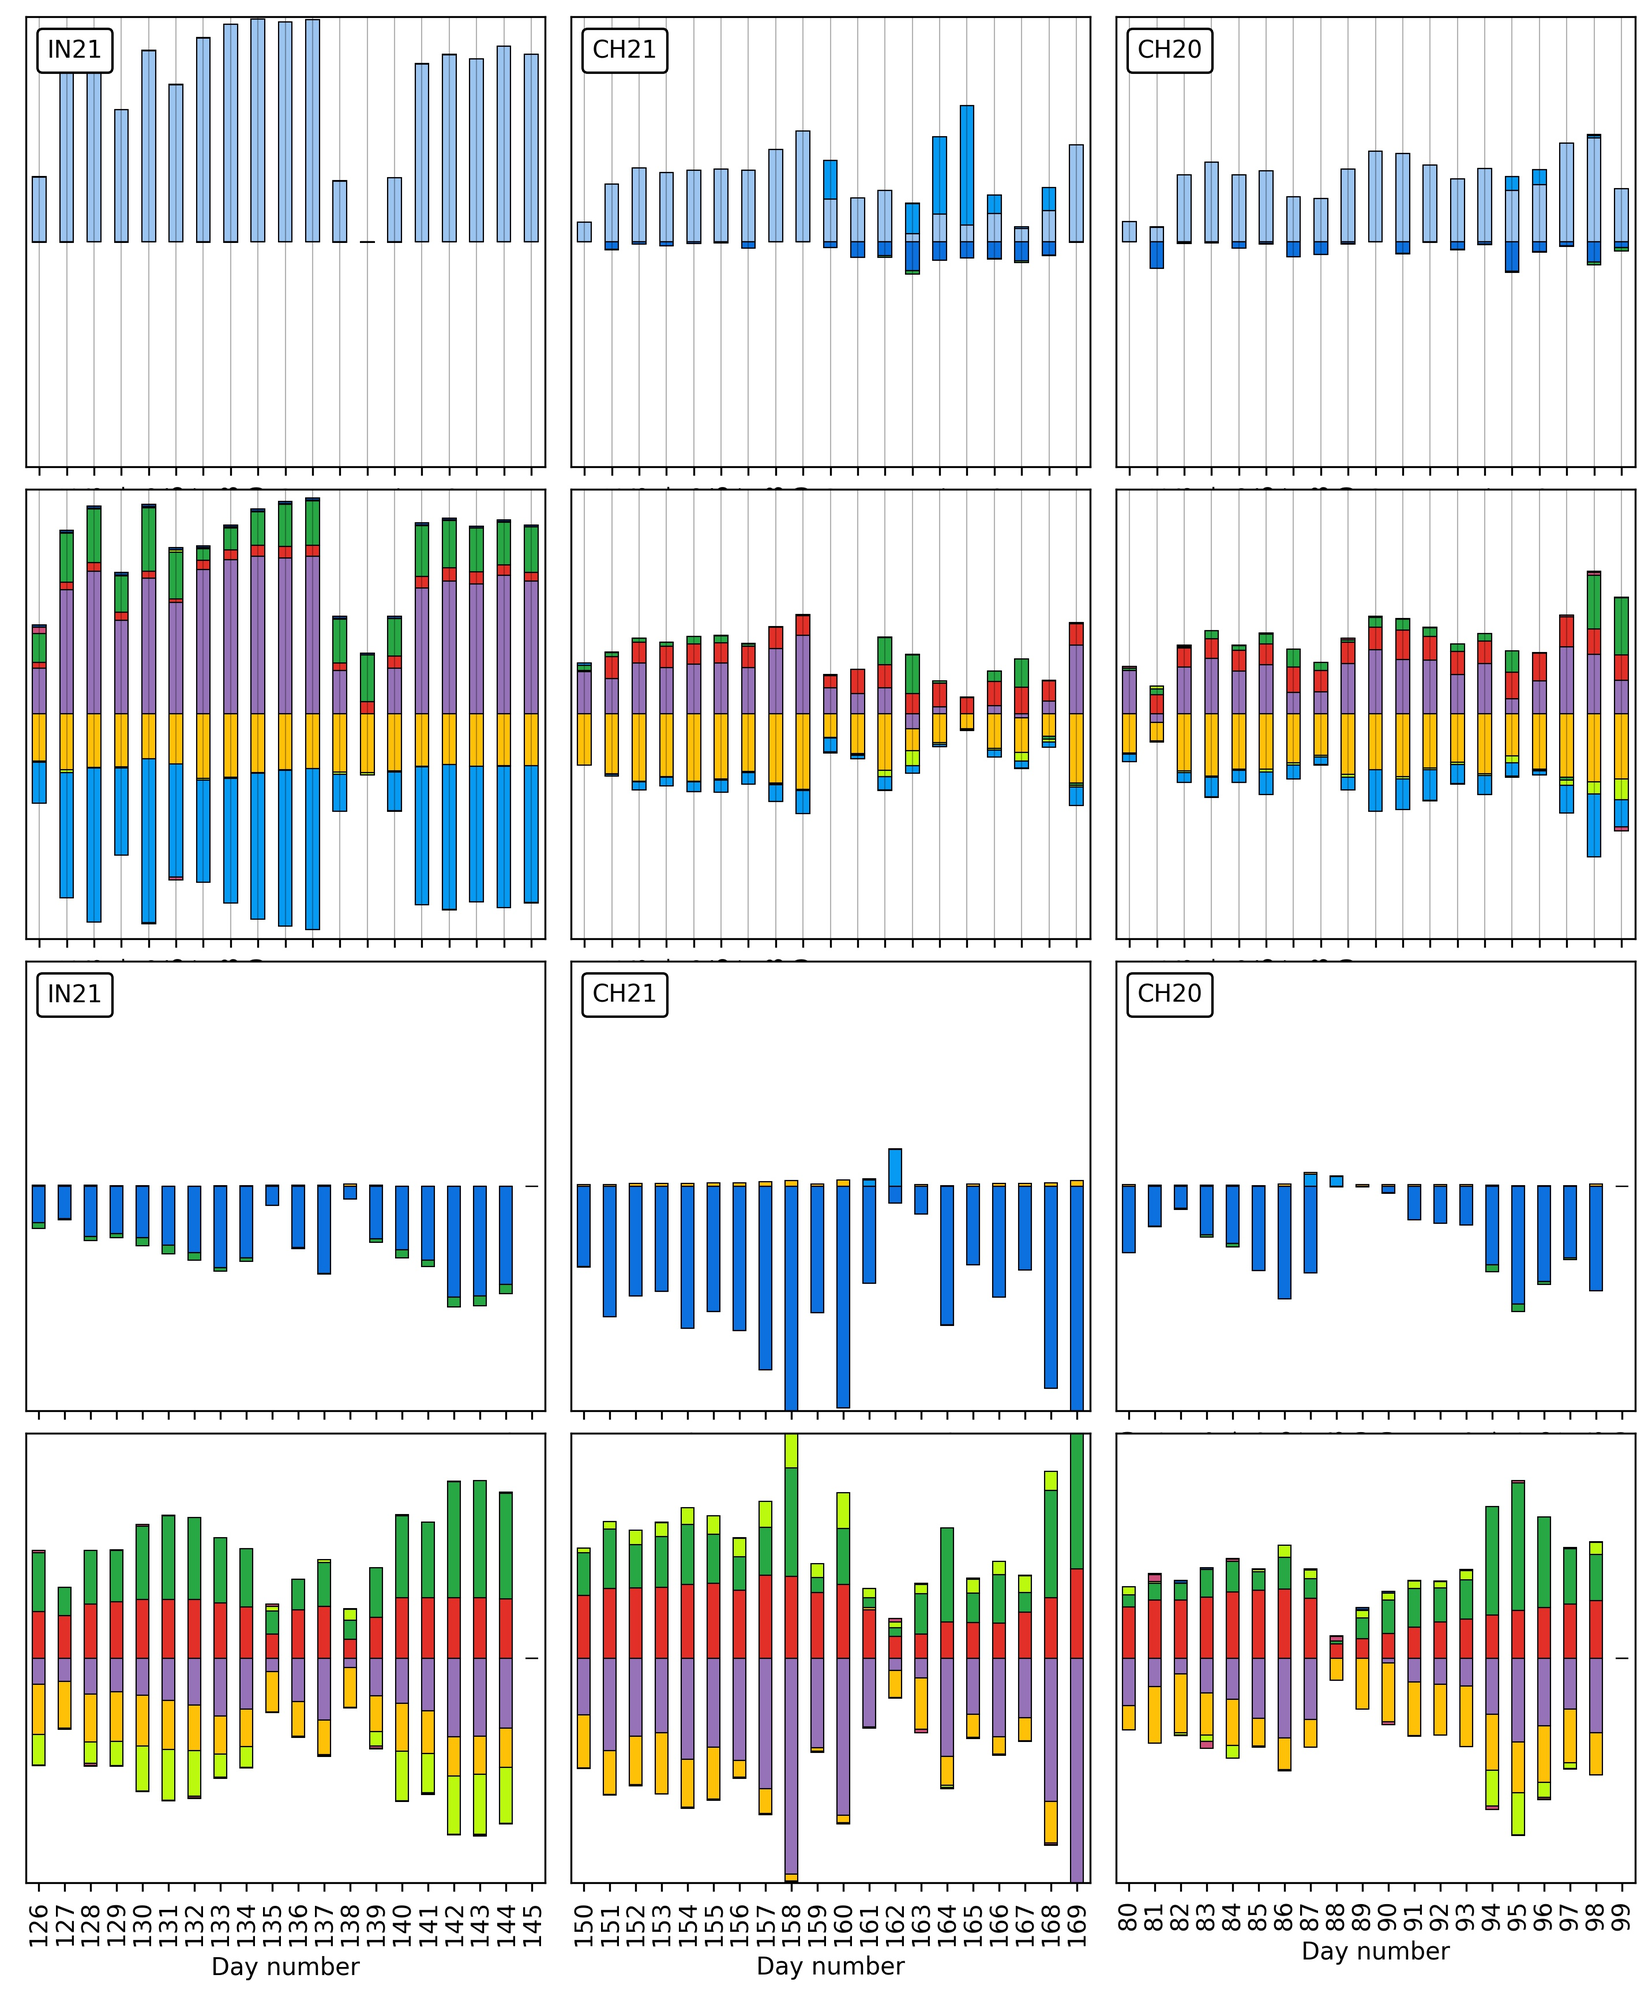
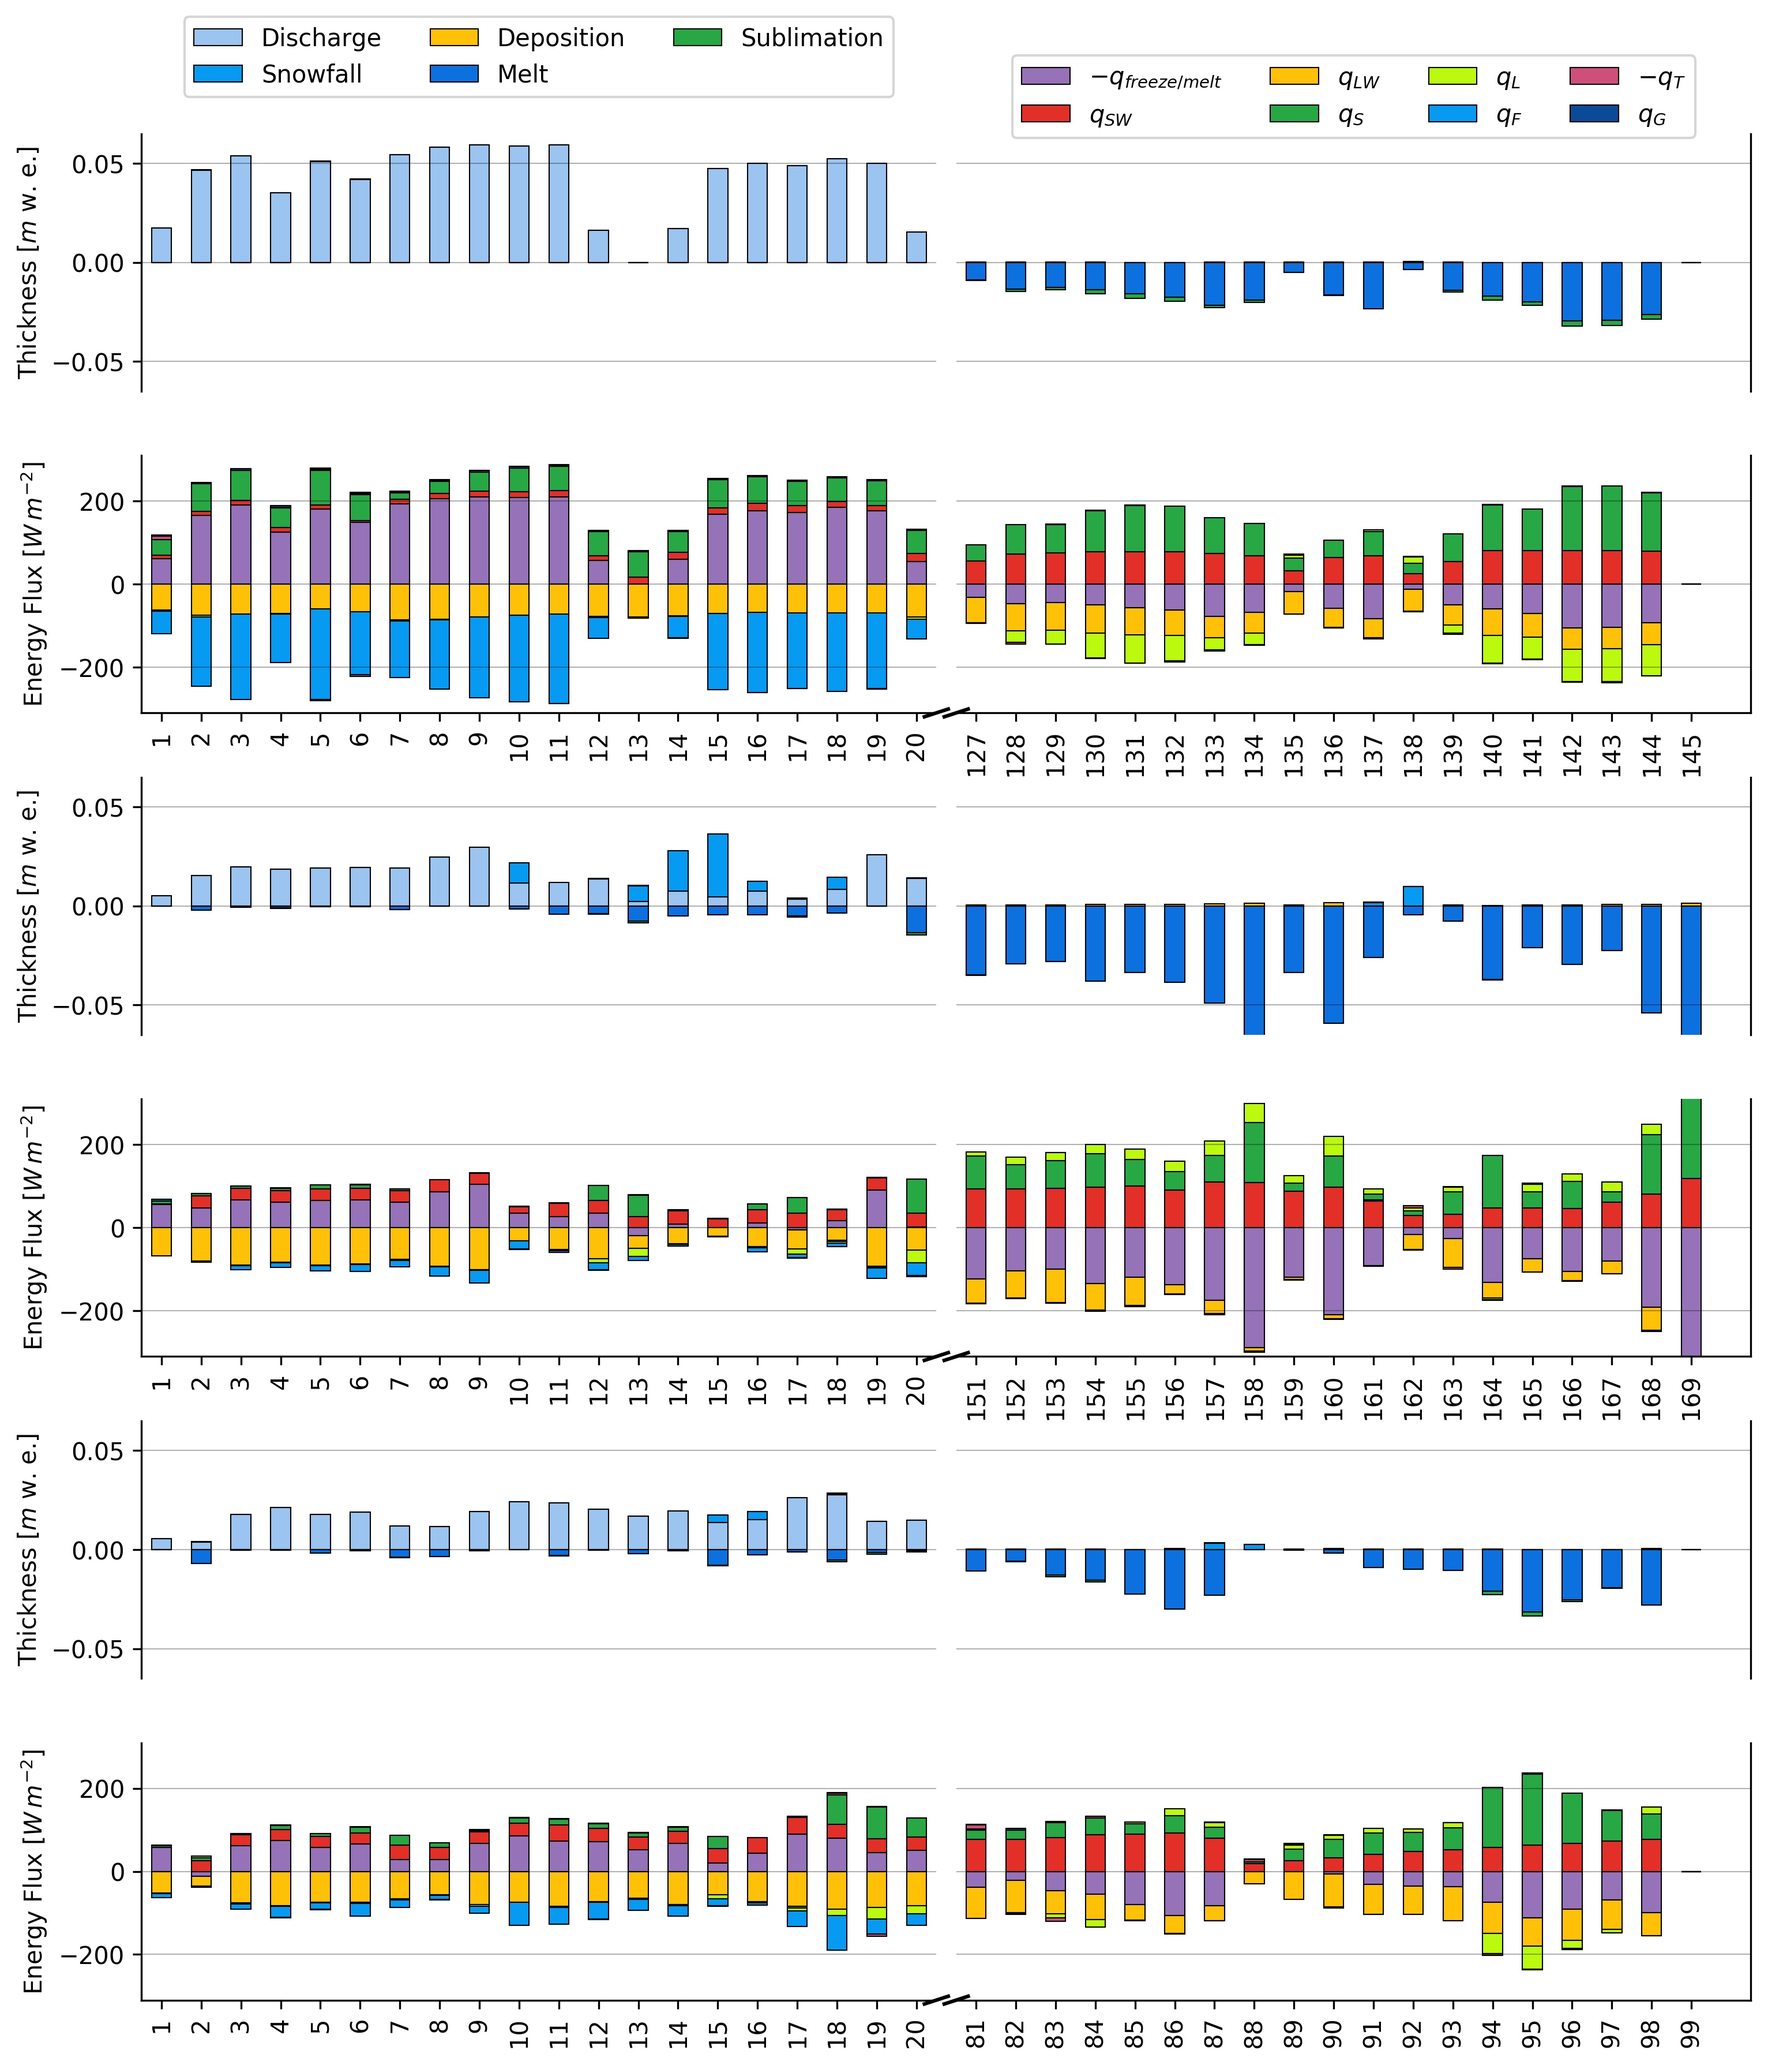
Mass energy plot

diff --git a/src/features/energy_bal_plot.py b/src/features/energy_bal_plot.py
@@ -24,8 +24,6 @@ from src.utils.settings import config
 from src.models.methods.metadata import get_parameter_metadata
 from src.models.icestupaClass import Icestupa
 from src.models.methods.metadata import get_parameter_metadata
-import seaborn as sns
-import matplotlib.pyplot as plt
 
 if __name__ == "__main__":
     locations = ['gangles21', 'guttannen21', 'guttannen20']
@@ -47,9 +45,7 @@ if __name__ == "__main__":
     CB91_Violet = "#661D98"
     CB91_Amber = "#F5B14C"
 
-    total_days = 101
-    fig, ax = plt.subplots(ncols = len(locations), nrows = 4, figsize=(12,14))
-    fig.subplots_adjust(hspace=0.05, wspace=0.05)
+    fig, ax = plt.subplots(ncols = 2, nrows = 2 * len(locations), figsize=(12,14))
     for ctr, location in enumerate(locations):
         SITE, FOLDER = config(location)
         icestupa = Icestupa(location)
@@ -122,101 +118,83 @@ if __name__ == "__main__":
         ]
 
         dfd = icestupa.df.set_index("When").resample("D").mean().reset_index()
+        # dfd["When"] = dfd["When"].dt.strftime("%b %d")
+        # dfd = dfd.set_index('When')
+
         dfd[["$-q_{freeze/melt}$", "$-q_{T}$"]] *=-1
         z = dfd[["$-q_{freeze/melt}$",  "$q_{SW}$", "$q_{LW}$", "$q_S$", "$q_L$", "$q_{F}$","$-q_{T}$", "$q_{G}$"]]
 
-        # if y2.shape[0]<total_days:
-        #     df2 = pd.DataFrame([[0]*y2.shape[1]],columns=y2.columns)
-        #     for i in range(y2.shape[0], total_days):
-        #         y2 = y2.append(df2, ignore_index=True)
-        #         z = z.append(df2, ignore_index=True)
-        # else:
-        #     y2 = y2[:total_days]
-        #     z= z[:total_days]
         y2.index = y2.index + 1
         z.index = z.index + 1
+        days =19 
+        xlim1=[-0.5,days+0.5]
+        xlim2=[z.shape[0]-days-0.5,z.shape[0]+0.5]
 
-        idx_slice = y2.index < 20
-        y2.loc[idx_slice].plot.bar(
-            stacked=True,
-            edgecolor="black",
-            linewidth=0.5,
-            color=[skyblue, "xkcd:azure", orange, "#0C70DE", green ],
-            ax=ax[0, ctr],
-        )
-        ax[0,ctr].xaxis.set_label_text("")
-        ax[0,ctr].grid(color="black", alpha=0.3, linewidth=0.5, which="major")
-        ax[0,ctr].set_ylim(-0.06, 0.06)
-        at = AnchoredText(get_parameter_metadata(location)['shortname'], prop=dict(size=10), frameon=True, loc="upper left")
-        at.patch.set_boxstyle("round,pad=0.,rounding_size=0.2")
-        ax[0,ctr].add_artist(at)
-        ax[0,ctr].legend(loc="upper center", ncol=3)
-        # ax[0,ctr].xaxis.set_ticks(np.arange(0, 51, 10))
-        # ax[0,ctr].xaxis.set_major_formatter(ticker.FormatStrFormatter('%i'))
-        ax[0,ctr].set_ylabel('Thickness [$m$ w. e.]')
-
-        idx_slice = z.index < 20
-        z[idx_slice].plot.bar(
-            stacked=True, 
-            edgecolor="black", 
-            linewidth=0.5, 
-            color=[purple, red, orange, green, "xkcd:yellowgreen", "xkcd:azure", pink,blue ],
-            ax=ax[1,ctr]
+        for j in range(2):
+            y2.plot.bar(
+                stacked=True,
+                edgecolor="black",
+                linewidth=0.5,
+                color=[skyblue, "xkcd:azure", orange, "#0C70DE", green ],
+                ax=ax[2*ctr,j],
             )
-        ax[1,ctr].grid(color="black", alpha=0.3, linewidth=0.5, which="major")
-        ax[1,ctr].set_ylim(-300, 300)
-        ax[1,ctr].legend(loc="upper center", ncol=4)
-        # ax[1,ctr].xaxis.set_ticks(np.arange(0, 51, 10))
-        # ax[1,ctr].xaxis.set_major_formatter(ticker.FormatStrFormatter('%i'))
-        ax[1,ctr].set_ylabel("Energy Flux [$W\\,m^{-2}$]")
-        ax[1,ctr].xaxis.set_label_text("Day number")
+        ax[2*ctr,0].set_xlim(xlim1) # most of the data
+        ax[2*ctr,1].set_xlim(xlim2)
+        # at = AnchoredText(get_parameter_metadata(location)['shortname'], prop=dict(size=10), frameon=True, loc="upper left")
+        # at.patch.set_boxstyle("round,pad=0.,rounding_size=0.2")
+        # ax[0,ctr].add_artist(at)
 
-        idx_slice = y2.index > (y2.shape[0]) - 20
-        y2[idx_slice].plot.bar(
-            stacked=True,
-            edgecolor="black",
-            linewidth=0.5,
-            color=[skyblue, "xkcd:azure", orange, "#0C70DE", green ],
-            ax=ax[2, ctr],
-        )
-        ax[2,ctr].xaxis.set_label_text("")
-        # ax[2,ctr].grid(color="black", alpha=0.3, linewidth=0.5, which="major")
-        ax[2,ctr].set_ylim(-0.06, 0.06)
-        at = AnchoredText(get_parameter_metadata(location)['shortname'], prop=dict(size=10), frameon=True, loc="upper left")
-        at.patch.set_boxstyle("round,pad=0.,rounding_size=0.2")
-        ax[2,ctr].add_artist(at)
-        ax[2,ctr].legend(loc="upper center", ncol=3)
-        # ax[2,ctr].xaxis.set_ticks(np.arange(0, total_days, 10))
-        # ax[2,ctr].xaxis.set_major_formatter(ticker.FormatStrFormatter('%i'))
-        ax[2,ctr].set_ylabel('Thickness [$m$ w. e.]')
+        for j in range(2):
+            z.plot.bar(
+                stacked=True, 
+                edgecolor="black", 
+                linewidth=0.5, 
+                color=[purple, red, orange, green, "xkcd:yellowgreen", "xkcd:azure", pink,blue ],
+                ax=ax[2*ctr+1, j]
+                )
+        ax[2*ctr+1,0].set_xlim(xlim1)
+        ax[2*ctr+1,1].set_xlim(xlim2)
 
-        idx_slice = z.index > (z.shape[0]) - 20
-        z[idx_slice].plot.bar(
-            stacked=True, 
-            edgecolor="black", 
-            linewidth=0.5, 
-            color=[purple, red, orange, green, "xkcd:yellowgreen", "xkcd:azure", pink,blue ],
-            ax=ax[3,ctr]
-            )
-        # ax[3,ctr].grid(color="black", alpha=0.3, linewidth=0.5, which="major")
-        ax[3,ctr].set_ylim(-300, 300)
-        ax[3,ctr].legend(loc="upper center", ncol=4)
-        # ax[3,ctr].xaxis.set_ticks(np.arange(0, total_days, 10))
-        # ax[3,ctr].xaxis.set_major_formatter(ticker.FormatStrFormatter('%i'))
-        ax[3,ctr].set_ylabel("Energy Flux [$W\\,m^{-2}$]")
-        ax[3,ctr].xaxis.set_label_text("Day number")
+    for ctr in range(2*len(locations)):
+        for j in range(2):
+            ax[ctr,j].get_legend().remove()
 
-    for i in range(4):
-        for j in range(len(locations)):
-            ax[i,j].get_legend().remove()
-            ax[i,j].axes.get_yaxis().set_visible(False)
-        # if i != 3:
-        #     ax[i,j].xaxis.set_label_text("")
-        # if j != 0:
-        #     ax[i,j].axes.get_yaxis().set_visible(False)
+            # # hide the spines between ax and ax2
+            ax[ctr,j].spines['top'].set_visible(False)
 
-    # ax[0,1].legend(loc="upper center", bbox_to_anchor=(-0.1, 0.15), ncol=3)
-    # ax[1,1].legend(loc="upper center", bbox_to_anchor=(-0.1, 1), ncol=4)
+            if ctr%2!=0:
+                ax[ctr,j].set_ylim(-310, 310)
+                ax[ctr,j].set_ylabel("Energy Flux [$W\\,m^{-2}$]")
+
+                d = .015 # how big to make the diagonal lines in axes coordinates
+                # arguments to pass plot, just so we don't keep repeating them
+                kwargs = dict(transform=ax[ctr,j].transAxes, color='k', clip_on=False)
+                if j == 0:
+                    ax[ctr,j].plot((1-d,1+d),(-d,+d), **kwargs) # top-left diagonal
+                    # ax[ctr,j].plot((1-d,1+d),(1-d,1+d), **kwargs) # bottom-left diagonal
+                else:
+                    ax[ctr,j].plot((-d,d),(-d,+d), **kwargs) # top-right diagonal
+                    # ax[ctr,j].plot((-d,d),(1-d,1+d), **kwargs) # bottom-right diagonal
+            else:
+                ax[ctr,j].set_ylim(-0.065, 0.065)
+                ax[ctr,j].set_ylabel('Thickness [$m$ w. e.]')
+                ax[ctr,j].spines['bottom'].set_visible(False)
+                ax[ctr,j].tick_params(bottom = False)
+                ax[ctr,j].tick_params(labelbottom = False)
+
+
+            if j == 0:
+                ax[ctr,j].spines['right'].set_visible(False)
+            else:
+                ax[ctr,j].spines['left'].set_visible(False)
+                ax[ctr,j].set_ylabel('')
+                ax[ctr,j].tick_params(left=False, labelleft= False,)
+            ax[ctr,j].tick_params(right = False)
+            ax[ctr,j].grid(color="black", alpha=0.3, axis = 'y', linewidth=0.5, which="major")
+
+    fig.subplots_adjust(hspace=0.25, wspace=0.025)
+    ax[0,0].legend(loc="upper center", bbox_to_anchor=(0.5, 1.5), ncol=3)
+    ax[1,1].legend(loc="upper center", bbox_to_anchor=(0.5, 2.6), ncol=4)
     plt.savefig(
         "data/paper/mass_energy_bal.jpg",
         dpi=300,

diff --git a/src/features/brokenaxis.py b/src/features/brokenaxis.py
@@ -1,0 +1,103 @@
+
+import matplotlib.pyplot as plt
+import numpy as np
+import pandas as pd
+import os,sys
+
+sys.path.append(
+    os.path.dirname(os.path.dirname(os.path.dirname(os.path.realpath(__file__))))
+)
+
+from src.utils.settings import config
+from src.models.methods.metadata import get_parameter_metadata
+from src.models.icestupaClass import Icestupa
+from src.models.methods.metadata import get_parameter_metadata
+
+location = 'guttannen21'
+SITE, FOLDER = config(location)
+icestupa = Icestupa(location)
+icestupa.read_output()
+
+icestupa.df = icestupa.df.rename(
+    {
+        "SW": "$q_{SW}$",
+        "LW": "$q_{LW}$",
+        "Qs": "$q_S$",
+        "Ql": "$q_L$",
+        "Qf": "$q_{F}$",
+        "Qg": "$q_{G}$",
+        "Qsurf": "$q_{surf}$",
+        "Qmelt": "$-q_{freeze/melt}$",
+        "Qt": "$-q_{T}$",
+    },
+    axis=1,
+)
+
+dfd = icestupa.df.set_index("When").resample("D").mean().reset_index()
+dfd[["$-q_{freeze/melt}$", "$-q_{T}$"]] *=-1
+z = dfd[["$-q_{freeze/melt}$",  "$q_{SW}$", "$q_{LW}$", "$q_S$", "$q_L$", "$q_{F}$","$-q_{T}$", "$q_{G}$"]]
+
+z.index = z.index + 1
+days = 20
+
+fig,(ax,ax2) = plt.subplots(1, 2, sharey=True)
+
+# plot the same data on both axes
+# ax.plot(x, y, 'bo')
+# idx_slice = z.index < days
+z.plot.bar(
+    stacked=True, 
+    edgecolor="black", 
+    linewidth=0.2, 
+    # color=[purple, red, orange, green, "xkcd:yellowgreen", "xkcd:azure", pink,blue ],
+    ax=ax
+    )
+z.plot.bar(
+    stacked=True, 
+    edgecolor="black", 
+    linewidth=0.2, 
+    # color=[purple, red, orange, green, "xkcd:yellowgreen", "xkcd:azure", pink,blue ],
+    ax=ax2 
+    )
+
+# zoom-in / limit the view to different portions of the data
+ax.set_xlim(0,days) # most of the data
+ax2.set_xlim(z.shape[0]-days,z.shape[0]) # outliers only
+
+# hide the spines between ax and ax2
+ax.spines['right'].set_visible(False)
+ax2.spines['left'].set_visible(False)
+ax.yaxis.tick_left()
+ax2.yaxis.tick_right()
+
+# Make the spacing between the two axes a bit smaller
+plt.subplots_adjust(wspace=0.15)
+
+# This looks pretty good, and was fairly painless, but you can get that
+# cut-out diagonal lines look with just a bit more work. The important
+# thing to know here is that in axes coordinates, which are always
+# between 0-1, spine endpoints are at these locations (0,0), (0,1),
+# (1,0), and (1,1). Thus, we just need to put the diagonals in the
+# appropriate corners of each of our axes, and so long as we use the
+# right transform and disable clipping.
+
+d = .015 # how big to make the diagonal lines in axes coordinates
+# arguments to pass plot, just so we don't keep repeating them
+kwargs = dict(transform=ax.transAxes, color='k', clip_on=False)
+ax.plot((1-d,1+d),(-d,+d), **kwargs) # top-left diagonal
+ax.plot((1-d,1+d),(1-d,1+d), **kwargs) # bottom-left diagonal
+
+kwargs.update(transform=ax2.transAxes) # switch to the bottom axes
+ax2.plot((-d,d),(-d,+d), **kwargs) # top-right diagonal
+ax2.plot((-d,d),(1-d,1+d), **kwargs) # bottom-right diagonal
+
+# What's cool about this is that now if we vary the distance between
+# ax and ax2 via f.subplots_adjust(hspace=...) or plt.subplot_tool(),
+# the diagonal lines will move accordingly, and stay right at the tips
+# of the spines they are 'breaking'
+
+plt.savefig(
+    "data/paper/mass_energy_bal.jpg",
+    dpi=300,
+    bbox_inches="tight",
+)
